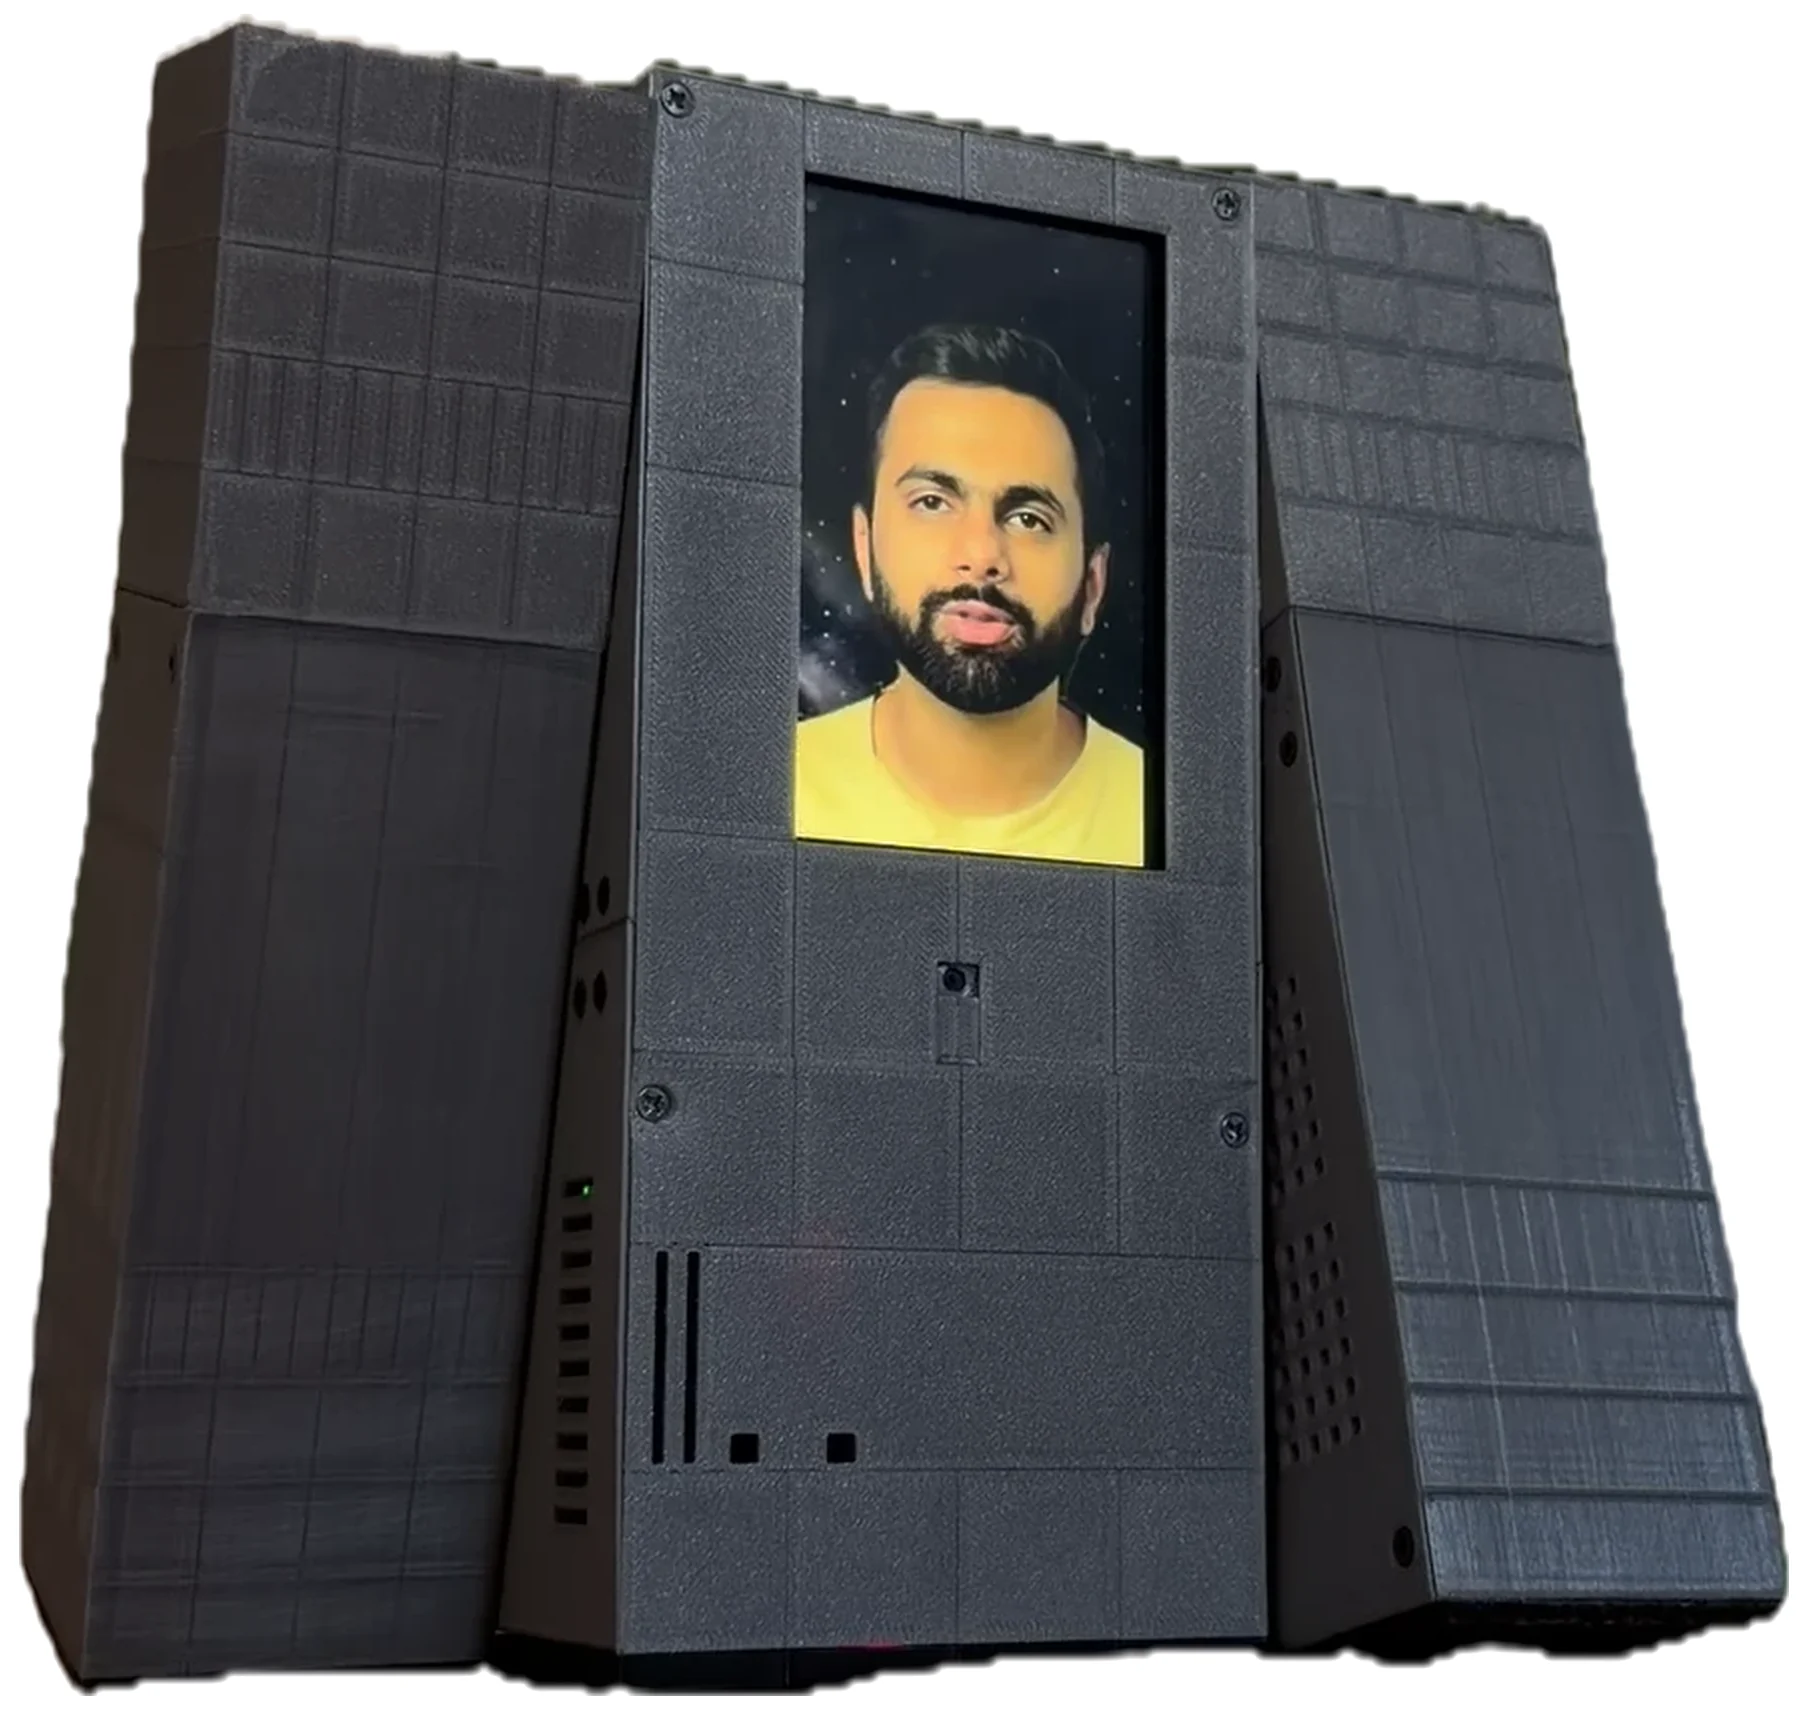
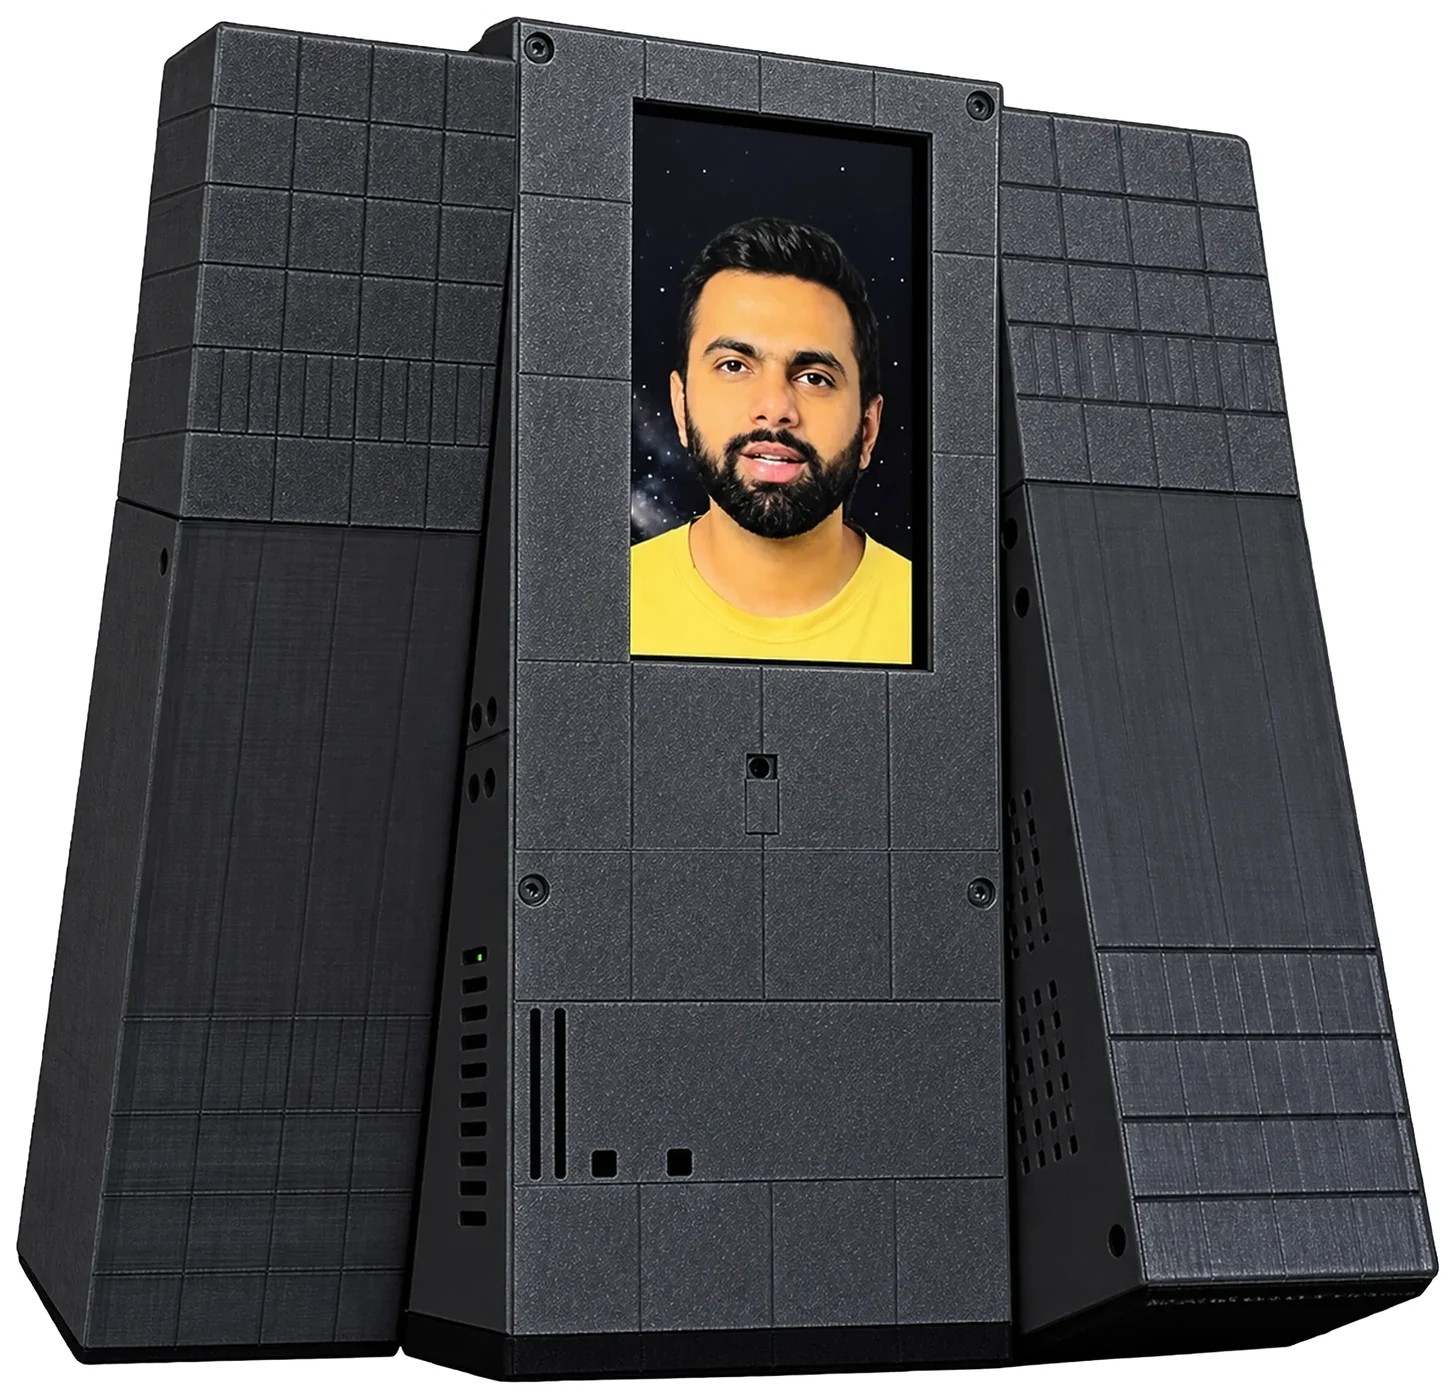
Stories: a cleaner TARS cut-out

Changed region(s): [[0.0, 0.0, 0.9897, 1.0], [0.8969, 0.3993, 0.9278, 0.5836], [0.0619, 0.8907, 0.0928, 0.9214]]

diff --git a/site/index.html b/site/index.html
@@ -125,7 +125,7 @@ setTimeout(function(){if(!document.documentElement.classList.contains('intro-on'
     <p class="chap-l">03 / The stories</p>
     <h2 id="h-sy" class="sr">Stories</h2>
     <a class="sy-card" href="/tars">
-      <figure class="sy-fig" aria-hidden="true"><img class="sy-cut" src="/assets/photos/tars-face.webp" alt="" width="1808" height="1715" loading="lazy"><figcaption class="hand sy-note">yes, that’s my face<svg viewBox="0 0 60 40"><path d="M4 6 C 22 6, 44 14, 54 34 M54 34 L 44 30 M54 34 L 56 23"/></svg></figcaption></figure>
+      <figure class="sy-fig" aria-hidden="true"><img class="sy-cut" src="/assets/photos/tars-face.webp" alt="" width="1455" height="1400" loading="lazy"><figcaption class="hand sy-note">yes, that’s my face<svg viewBox="0 0 60 40"><path d="M4 6 C 22 6, 44 14, 54 34 M54 34 L 44 30 M54 34 L 56 23"/></svg></figcaption></figure>
       <span class="sy-text">
         <span class="kicker">TARS · a robot, running fully local</span>
         <span class="sy-h">I built a robot. Then I gave it <span class="hl">my&nbsp;face.</span></span>
